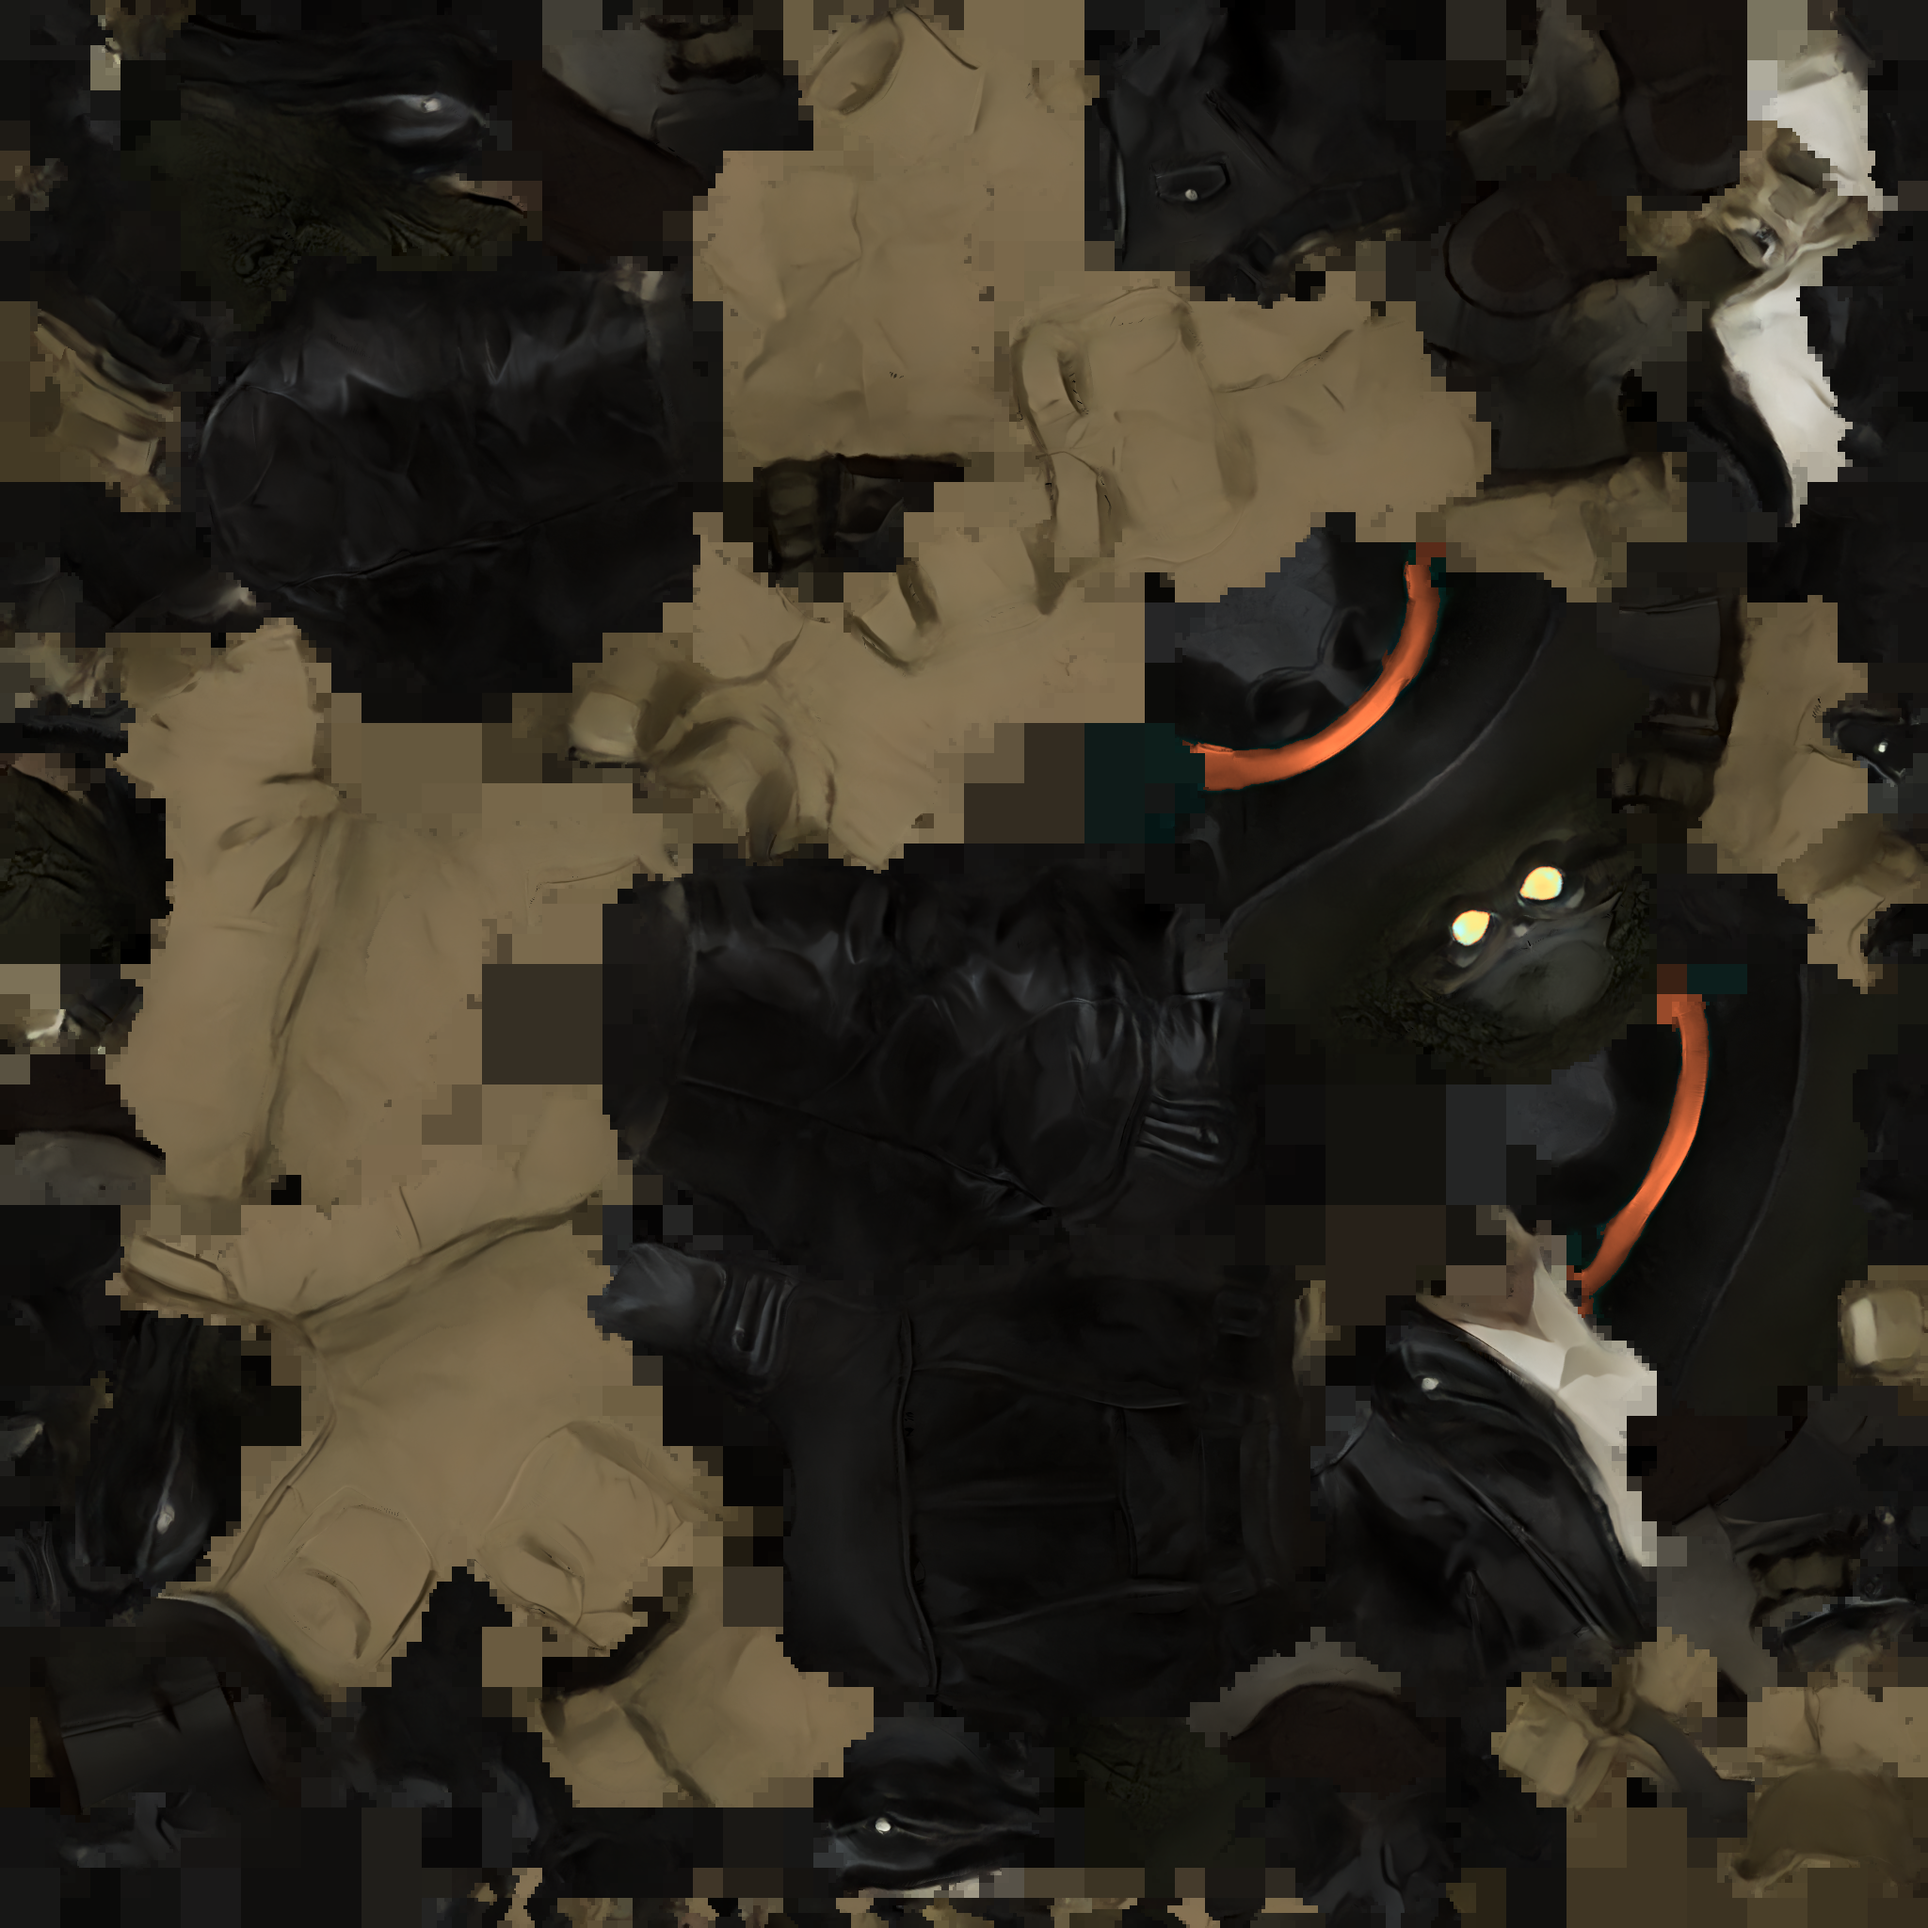
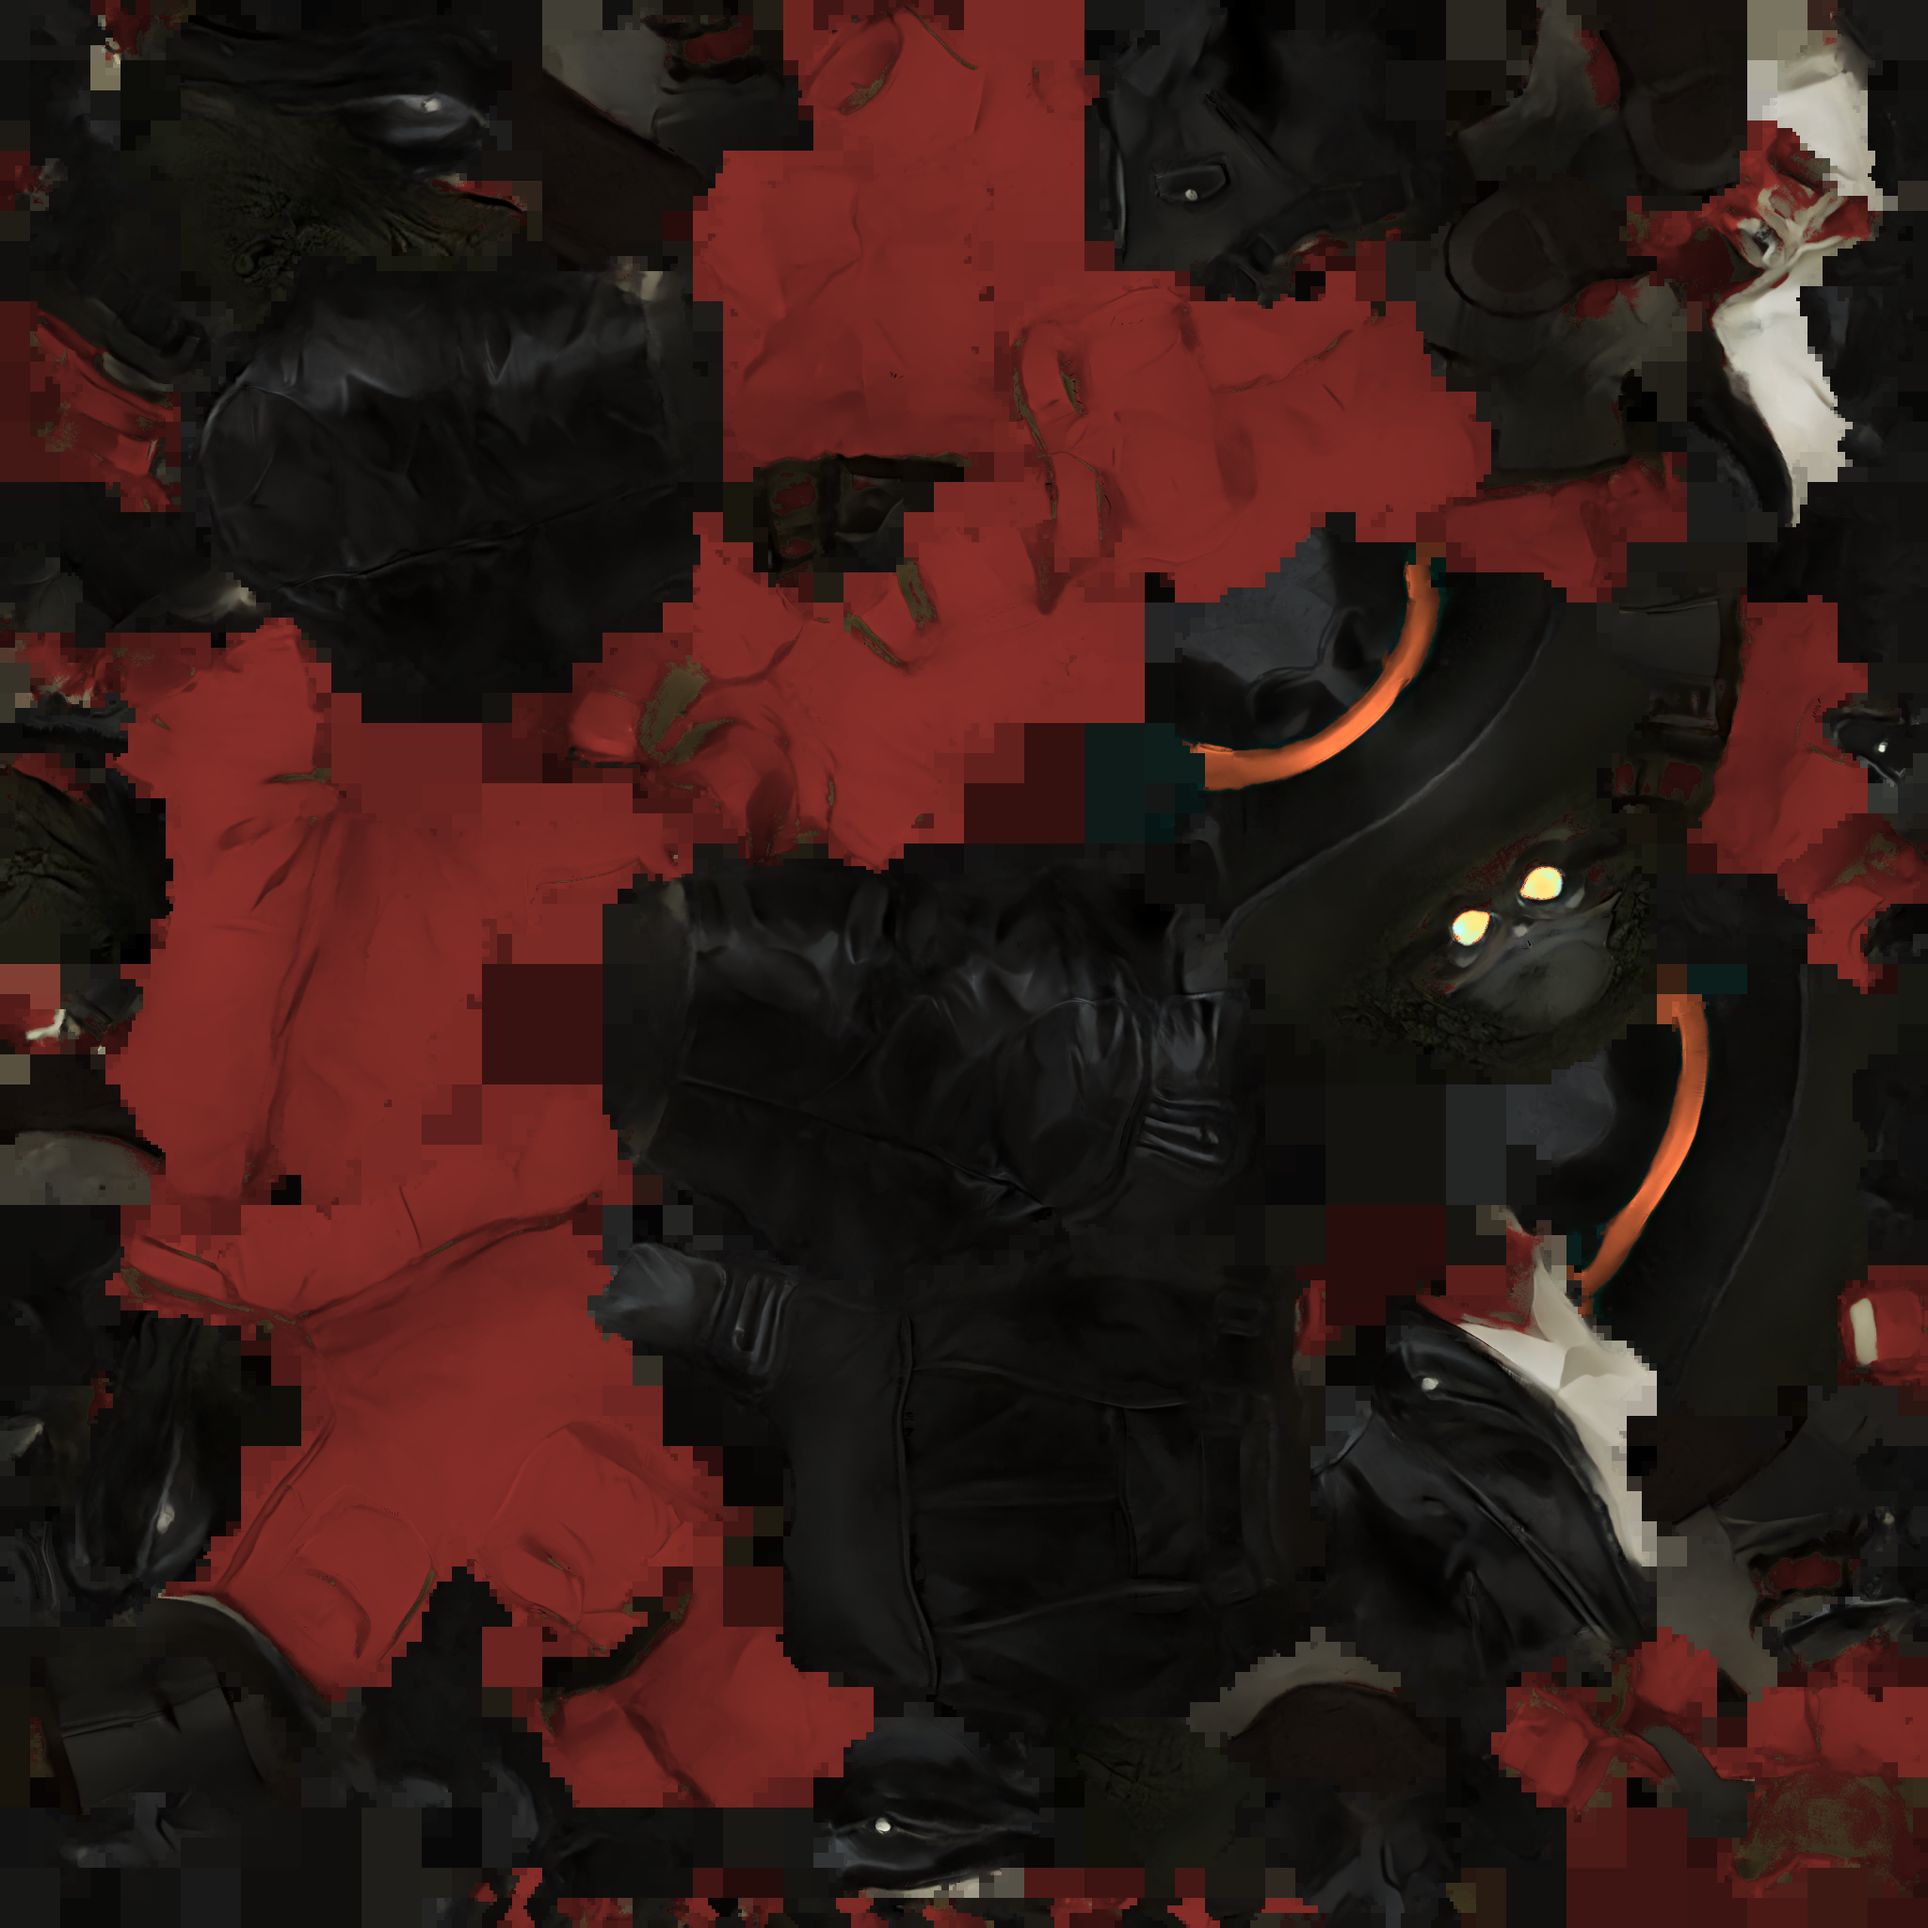
Player rust: red cargo pants (#79)

diff --git a/CHANGELOG.md b/CHANGELOG.md
@@ -14,7 +14,7 @@ Plain English, newest on top. One entry per milestone.
 - **Cantina owner:** pilot helmet, breathing mask and yellow visor, a yellow
   hooded tunic over a leather jacket, tight leather trousers and boots. She now
   wears kit pieces too.
-- **Colours:** player rust, sand, olive, dusk; guard gunmetal, oxblood, desert,
+- **Colours:** player rust (red cargo pants, rust hat band), sand, olive, dusk; guard gunmetal, oxblood, desert,
   navy, black; owner teal, madder, slate, sand. All show up in the character
   builder (F11 > Character).
 - Review sheets in `docs/kit/`; prompts and picks in `docs/kit/HYPER3D_PROMPTS.md`.
